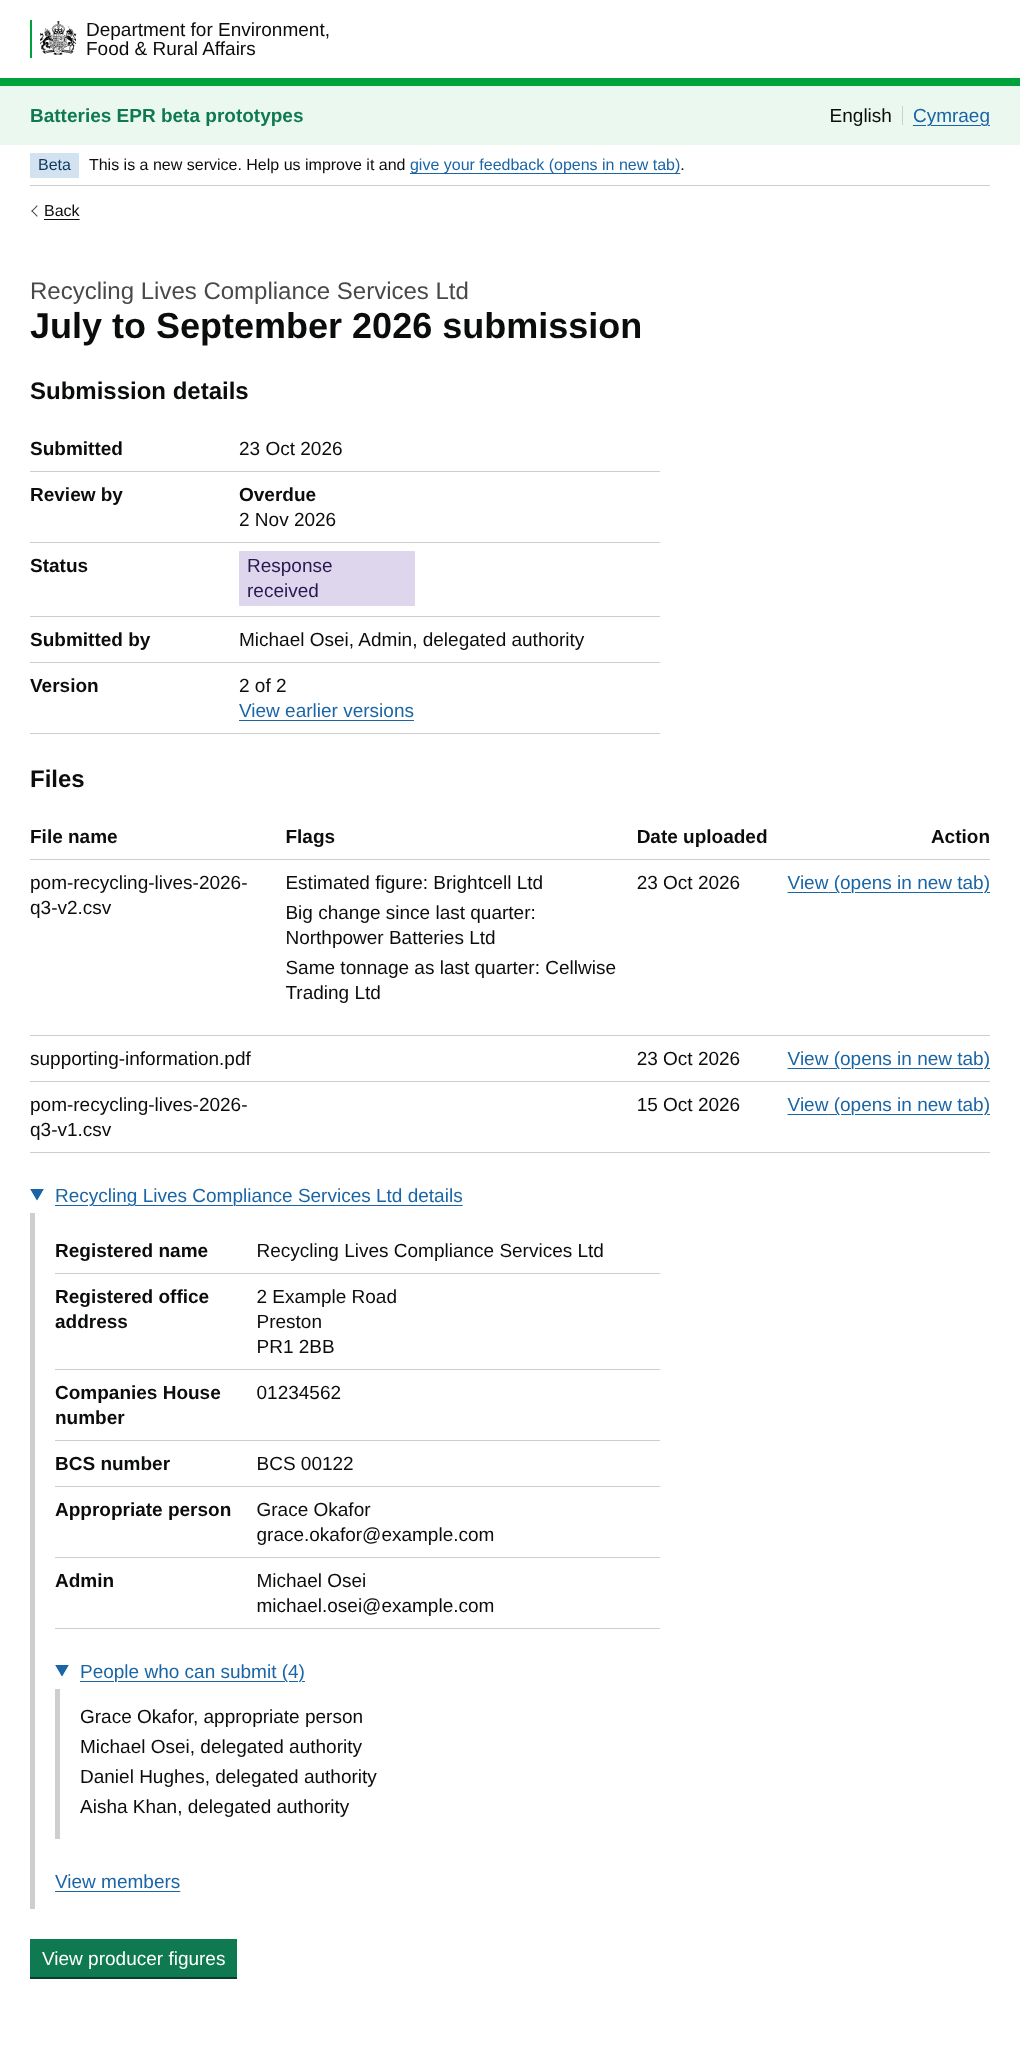
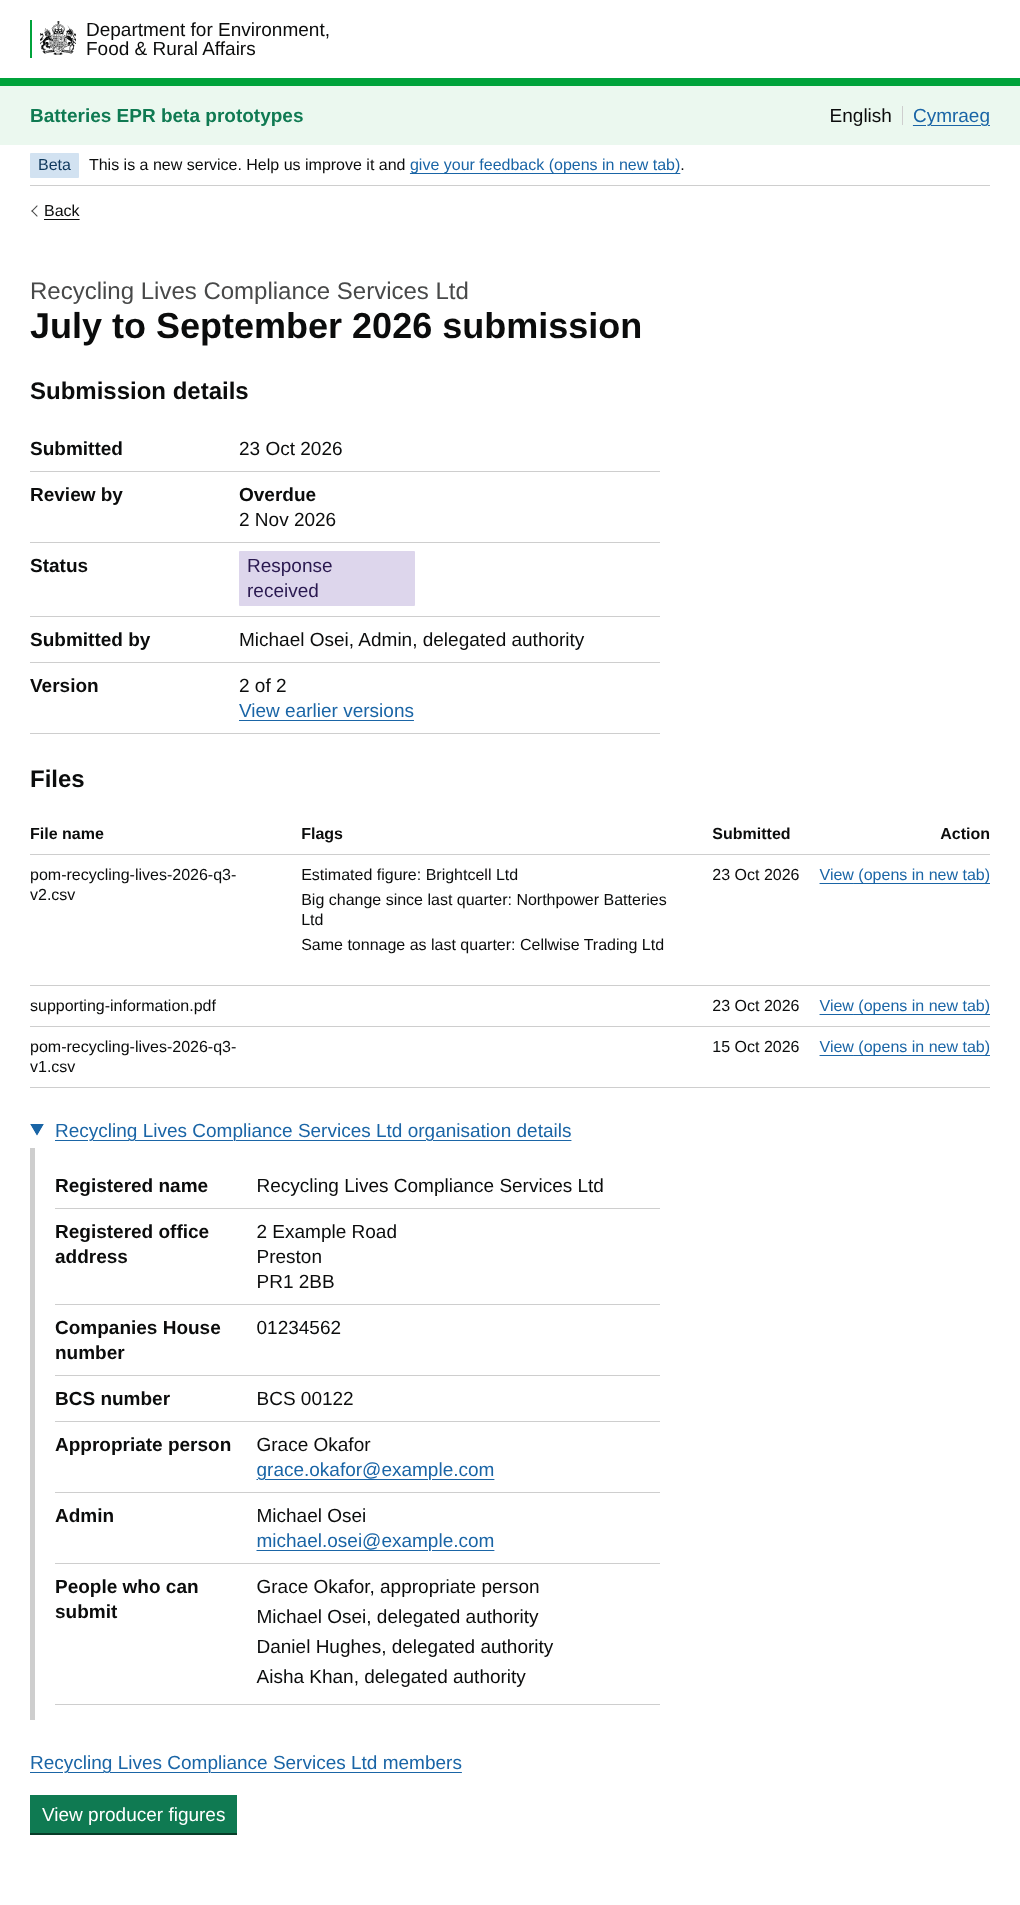
EB-325 brief: people who can submit in the organisation details list, email links, members link outside, files table in small text with Submitted
Claude-Session: https://claude.ai/code/session_014pBrKbgm5Jfdzkw7drhM9g

Changed region(s): [[0.0, 0.0, 1.0, 0.5575], [0.0304, 0.4955, 0.5775, 0.9911], [0.6078, 0.4026, 0.9725, 0.4646]]

diff --git a/app/views/regulator/pom-submission/brief.html b/app/views/regulator/pom-submission/brief.html
@@ -11,8 +11,10 @@
   - Submission details, with the status tag in the list
   - One files table: the flags are written out against the file they're in,
     and View opens the file in a new tab (they can download it from there)
-  - The scheme's details in a details component named after the scheme,
-    view only, with the people who can submit in a details component inside it
+  - The scheme's organisation details in a details component named after the
+    scheme, view only, with emails as links and the people who can submit in
+    the list (everyone, however many)
+  - A link to the scheme's members, below it
   - View producer figures: the main call to action, last on the page
   "Admin", not "Super user" (Jen's word)
 
@@ -52,22 +54,25 @@
   { key: { text: words.version }, value: { html: versionHtml } }
 ])) %}
 
-{# Files: one row per file, newest first, with its flags written out #}
+{# Files: one row per file, newest first, with its flags written out.
+   Table text is 16px, as on the lists of submissions #}
+{% set small = "govuk-!-font-size-16" %}
 {% set fileRows = [] %}
 {% for f in s.files %}
-  {% set flagsHtml %}{% if f.flagList.length %}<ul class="govuk-list">{% for flag in f.flagList %}<li>{{ flag.title }}: {{ flag.producer }}</li>{% endfor %}</ul>{% else %}<span class="govuk-visually-hidden">{{ words.noFlags }}</span>{% endif %}{% endset %}
+  {% set flagsHtml %}{% if f.flagList.length %}<ul class="govuk-list govuk-!-font-size-16">{% for flag in f.flagList %}<li>{{ flag.title }}: {{ flag.producer }}</li>{% endfor %}</ul>{% else %}<span class="govuk-visually-hidden">{{ words.noFlags }}</span>{% endif %}{% endset %}
   {% set fileRows = (fileRows.push([
-    { text: f.name, classes: "app-table-cell--wrap" },
-    { html: flagsHtml, classes: "app-table-cell--wrap" },
-    { text: f.dateText },
-    { html: '<a href="' + notBuiltHref + '" class="govuk-link" target="_blank" rel="noreferrer noopener">' + (words.viewLink | escape) + '<span class="govuk-visually-hidden"> ' + (f.name | escape) + '</span> ' + (words.opensInNewTab | escape) + '</a>', classes: "govuk-!-text-align-right" }
+    { text: f.name, classes: small + " app-table-cell--wrap" },
+    { html: flagsHtml, classes: small + " app-table-cell--wrap" },
+    { text: f.dateText, classes: small },
+    { html: '<a href="' + notBuiltHref + '" class="govuk-link" target="_blank" rel="noreferrer noopener">' + (words.viewLink | escape) + '<span class="govuk-visually-hidden"> ' + (f.name | escape) + '</span> ' + (words.opensInNewTab | escape) + '</a>', classes: small + " govuk-!-text-align-right" }
   ]), fileRows) %}
 {% endfor %}
 
 {% block content %}
 
-{# The scheme's details, view only #}
+{# The scheme's organisation details, view only. Emails are links #}
 {% set addressHtml %}{% for line in org.address %}{{ line }}{% if not loop.last %}<br>{% endif %}{% endfor %}{% endset %}
+{% macro personHtml(p) %}{{ p.name }}<br><a href="mailto:{{ p.email }}" class="govuk-link">{{ p.email }}</a>{% endmacro %}
 {% set peopleHtml %}
   <ul class="govuk-list">
     {% for p in org.canSubmit %}
@@ -82,12 +87,11 @@
       { key: { text: words.registeredOfficeAddress }, value: { html: addressHtml } },
       { key: { text: words.companiesHouseNumber }, value: { text: org.companiesHouseNumber } },
       { key: { text: words.bcsNumber }, value: { text: org.bcsNumber } },
-      { key: { text: words.appropriatePerson }, value: { html: (org.appropriatePerson.name | escape) + "<br>" + (org.appropriatePerson.email | escape) } },
-      { key: { text: words.superUser }, value: { html: (org.superUser.name | escape) + "<br>" + (org.superUser.email | escape) } }
+      { key: { text: words.appropriatePerson }, value: { html: personHtml(org.appropriatePerson) } },
+      { key: { text: words.superUser }, value: { html: personHtml(org.superUser) } },
+      { key: { text: words.peopleWhoCanSubmit }, value: { html: peopleHtml } }
     ]
   }) }}
-  {{ govukDetails({ summaryText: words.peopleWhoCanSubmit + " (" + org.canSubmit.length + ")", html: peopleHtml }) }}
-  <p class="govuk-body"><a href="{{ notBuiltHref }}" class="govuk-link">{{ words.viewMembersLink }}</a></p>
 {% endset %}
 
 <div class="govuk-grid-row">
@@ -114,10 +118,10 @@
         caption: words.filesTableCaption,
         captionClasses: "govuk-visually-hidden",
         head: [
-          { text: words.fileNameColumn, classes: "app-table-cell--wrap" },
-          { text: words.flagsColumn, classes: "app-table-cell--wrap" },
-          { text: words.dateUploadedColumn },
-          { text: words.actionColumn, classes: "govuk-!-text-align-right" }
+          { text: words.fileNameColumn, classes: small + " app-table-cell--wrap" },
+          { text: words.flagsColumn, classes: small + " app-table-cell--wrap" },
+          { text: words.submittedColumn, classes: small },
+          { text: words.actionColumn, classes: small + " govuk-!-text-align-right" }
         ],
         rows: fileRows
       }) }}
@@ -130,6 +134,8 @@
   <div class="govuk-grid-column-two-thirds">
 
     {{ govukDetails({ summaryText: s.scheme + " " + words.schemeDetails, html: schemeHtml }) }}
+
+    <p class="govuk-body"><a href="{{ notBuiltHref }}" class="govuk-link">{{ s.scheme }} {{ words.membersLink }}</a></p>
 
     {{ govukButton({ text: words.viewProducerFiguresButton, href: notBuiltHref }) }}
 

diff --git a/app/views/changes/add-pom-submission-page.html b/app/views/changes/add-pom-submission-page.html
@@ -16,7 +16,7 @@
 <p class="govuk-body"><strong class="govuk-tag govuk-tag--green">New</strong></p>
 <p class="govuk-body">Regulators need to see one scheme's submission for a quarter, who submitted it and whether they could, and the scheme's details if they need them. There are two versions for the team to look at and say what we can build. We'd rather test one.</p>
 <p class="govuk-body"><strong>Brief version: 1 page (Marie and Jen)</strong></p>
-<ul class="govuk-list govuk-list--bullet"><li>Submission details: submitted, review by, status (the tag is in the list), who submitted it and their authority, and the version (&quot;2 of 2&quot;, with a link to earlier versions)</li><li>One files table, full width: file name, the flags written out against the file they're in, date uploaded, and View, which opens the file in a new tab (they can download it from there). Who submitted is in the details above, so it's not in the table</li><li>The scheme's details in a details component named after the scheme (for example &quot;Recycling Lives Compliance Services Ltd details&quot;), view only. Inside it, the people who can submit, in another details component, listing everyone</li><li>View producer figures last: it's the main thing to do next</li><li>&quot;Admin&quot; for the top of the scheme's account</li><li>From &quot;View submission&quot; on the brief list. Scheme names on that list aren't links any more, so two links in a row don't go to the same place</li></ul>
+<ul class="govuk-list govuk-list--bullet"><li>Submission details: submitted, review by, status (the tag is in the list), who submitted it and their authority, and the version (&quot;2 of 2&quot;, with a link to earlier versions)</li><li>One files table, full width, in 16px text and the MOJ scrollable pane: file name, the flags written out against the file they're in, submitted (the same word as the list), and View, which opens the file in a new tab (they can download it from there). Who submitted is in the details above, so it's not in the table</li><li>The scheme's organisation details in a details component named after the scheme (for example &quot;Recycling Lives Compliance Services Ltd organisation details&quot;), view only. Emails are links. The people who can submit are in the list, everyone, however many</li><li>A link to the scheme's members below it (for example &quot;Recycling Lives Compliance Services Ltd members&quot;)</li><li>View producer figures last: it's the main thing to do next</li><li>&quot;Admin&quot; for the top of the scheme's account</li><li>From &quot;View submission&quot; on the brief list. Scheme names on that list aren't links any more, so two links in a row don't go to the same place</li></ul>
 <p class="govuk-body"><strong>Full version: 2 pages (Rich)</strong></p>
 <ul class="govuk-list govuk-list--bullet"><li>Page 1, the submission: Rich's extras too (days left, BCS number, tonnage and producers in the file), flags written out with the scheme's reason, and a table of every file uploaded</li><li>Page 2, organisation details: Change links, so we can ask the business whether regulators can change them, and the people who can submit, with delegated authority dates</li><li>&quot;Super user&quot; for the top of the scheme's account</li><li>From &quot;View submission&quot; (page 1) or a scheme name (page 2) on the full list</li></ul>
 <p class="govuk-body"><strong>Both versions</strong></p>

diff --git a/app/content/regulator/pom-submission-brief.md b/app/content/regulator/pom-submission-brief.md
@@ -1,4 +1,4 @@
-Page: one placed on the market submission, brief version (EB-325). One page, with the scheme's details in a details component. You get here from "View submission" on the brief list of submissions.
+Page: one placed on the market submission, brief version (EB-325). One page, with the scheme's organisation details in a details component. You get here from "View submission" on the brief list of submissions.
 
 Change the words under each label. Don't change the labels (lines starting ##).
 The scheme, people, dates and figures are dummy data: ask Marie to change those.
@@ -58,8 +58,8 @@ Flags
 ## No flags (only screen readers hear this, in the Flags column)
 No flags
 
-## Date uploaded column
-Date uploaded
+## Submitted column (when the file was uploaded)
+Submitted
 
 ## Action column
 Action
@@ -70,8 +70,8 @@ View
 ## Opens in new tab (after the View link)
 (opens in new tab)
 
-## Scheme details (after the scheme name, for example "Valpak Ltd details")
-details
+## Scheme details (after the scheme name, for example "Valpak Ltd organisation details")
+organisation details
 
 ## Registered name
 Registered name
@@ -88,11 +88,11 @@ BCS number
 ## Appropriate person
 Appropriate person
 
-## View members link
-View members
-
 ## People who can submit
 People who can submit
+
+## Members link (after the scheme name, for example "Valpak Ltd members")
+members
 
 ## View producer figures button
 View producer figures
